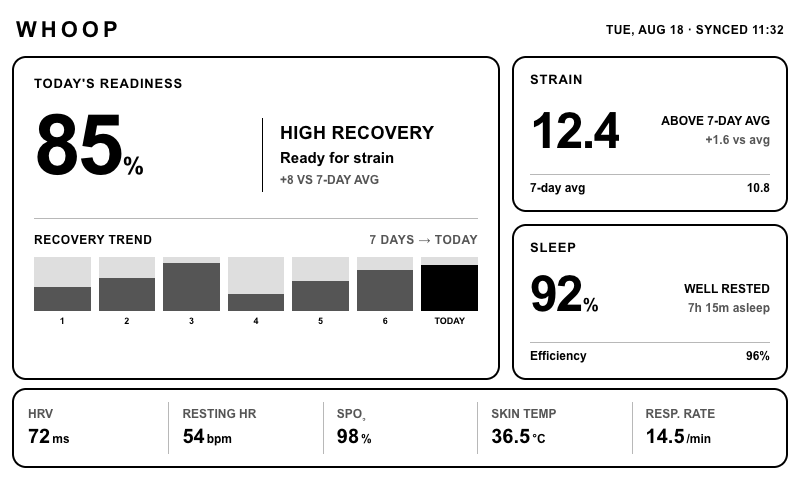
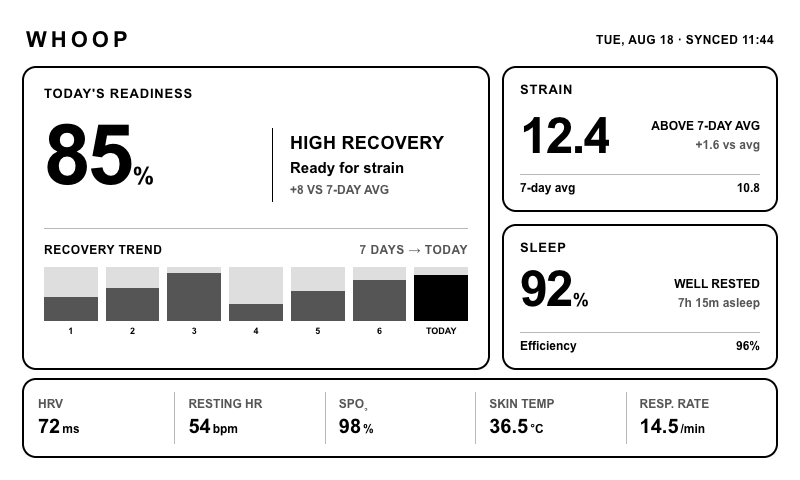
Fix TRMNL dashboard safe area

Changed region(s): [[0.0, 0.0312, 1.0, 1.0], [0.3438, 0.25, 0.5625, 0.4062]]

diff --git a/preview.html b/preview.html
@@ -13,6 +13,12 @@
             overflow: hidden;
             background: #ffffff;
         }
+
+        body {
+            display: flex;
+            align-items: center;
+            justify-content: center;
+        }
     </style>
 </head>
 <body>
@@ -26,12 +32,12 @@
     }
 
     .whoop-dashboard {
-        width: 800px;
-        height: 480px;
+        width: 780px;
+        height: 460px;
         padding: 12px;
         overflow: hidden;
         display: grid;
-        grid-template-rows: 36px 324px 80px;
+        grid-template-rows: 36px 304px 80px;
         gap: 8px;
         box-sizing: border-box;
         background: var(--paper);
@@ -85,7 +91,7 @@
 
     .whoop-dashboard .main-grid {
         display: grid;
-        grid-template-columns: 488px 276px;
+        grid-template-columns: 468px 276px;
         gap: 12px;
         overflow: hidden;
     }
@@ -260,7 +266,7 @@
 
     .whoop-dashboard .support-column {
         display: grid;
-        grid-template-rows: 156px 156px;
+        grid-template-rows: 146px 146px;
         gap: 12px;
         overflow: hidden;
     }
@@ -398,7 +404,7 @@
     <header class="header">
         <div class="logo">WHOOP</div>
         <div class="sync-meta truncate">
-            Tue, Aug 18 &middot; Synced 11:35
+            Tue, Aug 18 &middot; Synced 11:44
         </div>
     </header>
 

diff --git a/src/preview.ts b/src/preview.ts
@@ -50,6 +50,12 @@ engine
             overflow: hidden;
             background: #ffffff;
         }
+
+        body {
+            display: flex;
+            align-items: center;
+            justify-content: center;
+        }
     </style>
 </head>
 <body>
